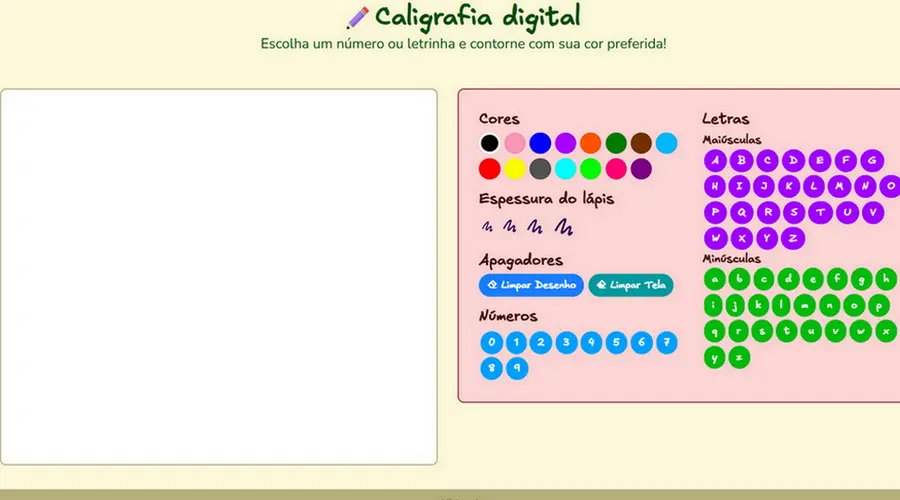
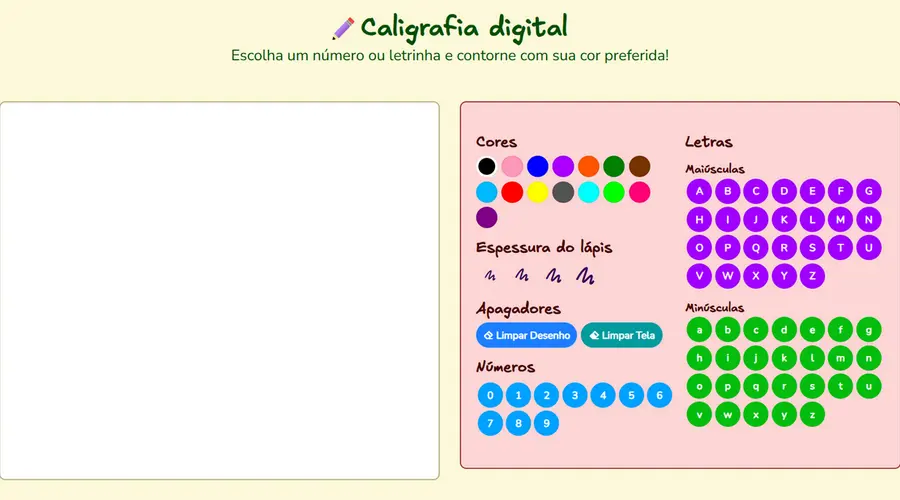
Add files via upload

diff --git a/index.html b/index.html
@@ -311,7 +311,7 @@
 
                   <div class="projetos__card-actions">
                     <a
-                      href="https://github.com/niedjaraujos/Schirleyde-Silva"
+                      href="https://niedjasdev.github.io/Schirleyde-Silva/"
                       target="_blank"
                       rel="noopener noreferrer"
                       class="projetos__card-link"
@@ -386,7 +386,7 @@
                   </ul>
                   <div class="projetos__card-actions">
                     <a
-                      href="https://github.com/niedjaraujos/Stefane-Brito"
+                      href="https://github.com/niedjasdev/Stefane-Advogada"
                       target="_blank"
                       rel="noopener noreferrer"
                       class="projetos__card-link"
@@ -407,7 +407,7 @@
                     </a>
 
                     <a
-                      href="https://stefane-brito.vercel.app/"
+                      href="https://stefane-advogada.vercel.app/"
                       target="_blank"
                       rel="noopener noreferrer"
                       class="projetos__card-link"
@@ -463,7 +463,7 @@
                   </ul>
                   <div class="projetos__card-actions">
                     <a
-                      href="https://github.com/niedjaraujos/new-app-gg"
+                      href="https://github.com/niedjasdev/new-app-gg"
                       target="_blank"
                       rel="noopener noreferrer"
                       class="projetos__card-link"